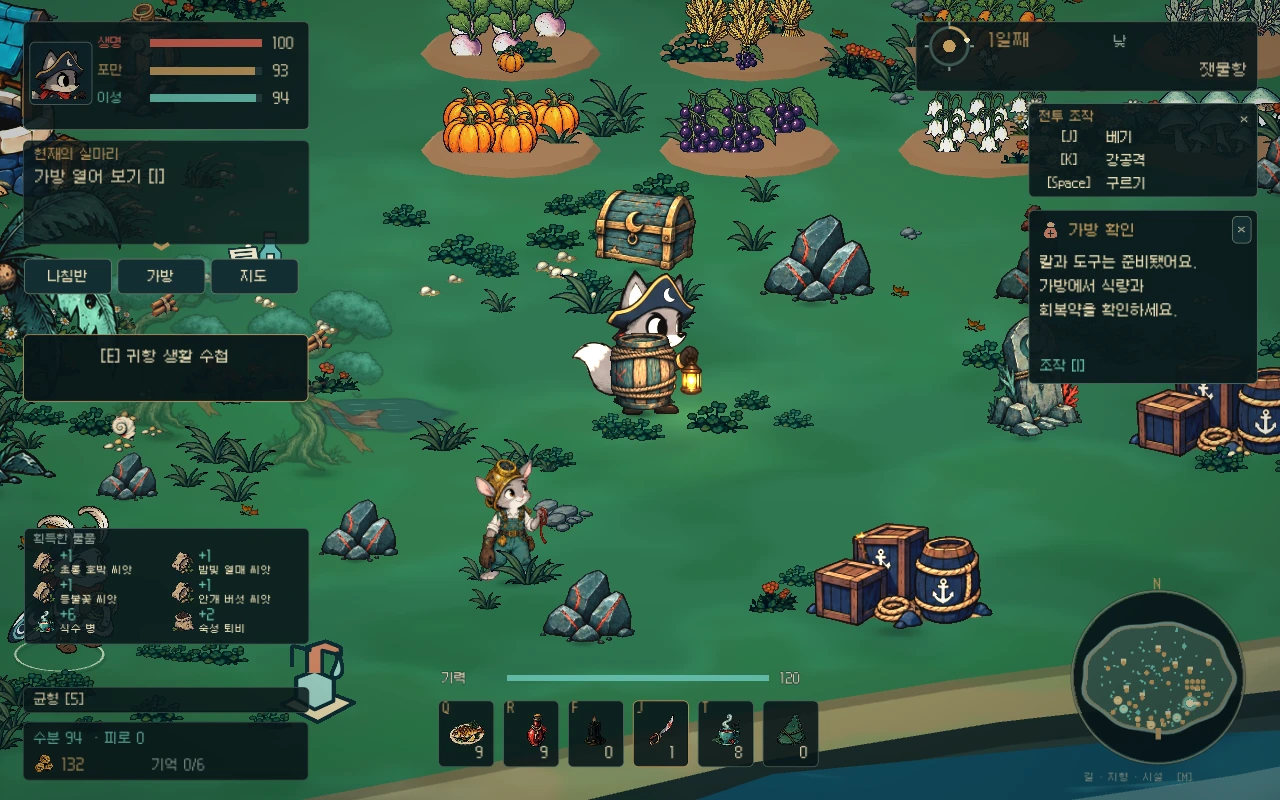
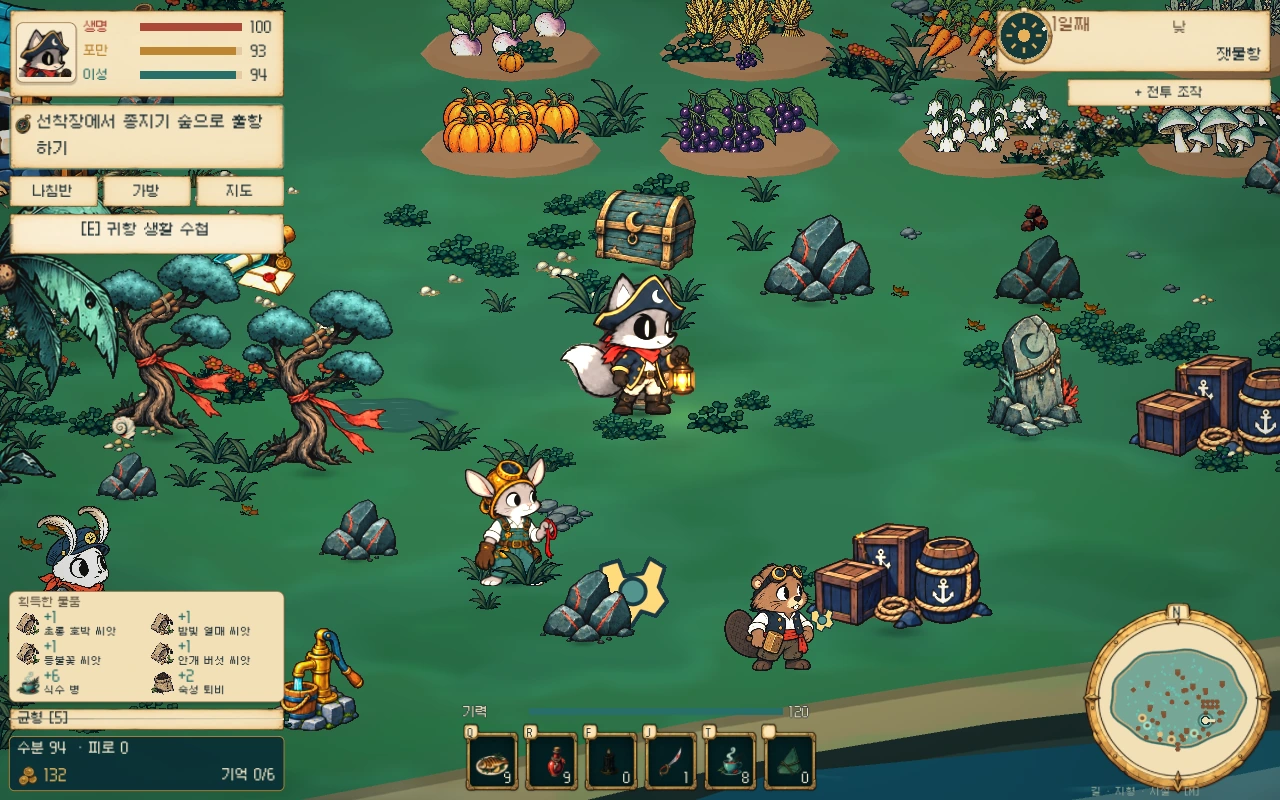
Update Outlaw Isles gallery for journal UI 0.53.3
Replace the banner, cover and all 16 previous screenshots with current Korean renders. Add settings, combat results and title views, for 19 gameplay/UI screenshots. Refresh matching captions and media provenance; keep other games, release information, store links and videos unchanged.

diff --git a/games/outlaw-isles-rogue-tides/MEDIA.md b/games/outlaw-isles-rogue-tides/MEDIA.md
@@ -1,12 +1,8 @@
-# Outlaw Isles: Rogue Tides — 소개 자료
+# Outlaw Isles: Rogue Tides — 소개 이미지
 
-- 게임 ID: `outlaw-isles-rogue-tides`
-- 공개 상품페이지: https://store.onstove.com/ko/games/106079
-- 상태: 출시 예정. 출시일·가격은 추후 공개.
-- 현재 영상 항목은 요청에 따라 비워 두었습니다.
-
-배너(1920×1080)와 카드 표지(1200×800)는 게임의 기존 타이틀 배경·선박·파도 레이어를 Godot에서 조합한 글자 없는 소개 일러스트입니다. 왼쪽에 웹 제목이 겹칠 여백을 남겼습니다.
-
-스크린샷 16장은 0.51.2의 실제 Godot 렌더링 화면입니다. 기존 보스전·폭풍 항해·설원·농사·인벤토리·조선소 6장에 항구 탐험·주민 대화·주민 의뢰·세계 해도·장비·요리와 보급·선원 관리·낚시·다른 대륙의 항구·벌목 10장을 추가했습니다. 탐험과 행동, 메뉴 화면을 번갈아 배치해 기능을 비교하기 쉽게 구성했습니다. 추가 장면은 2026-10-19에 한국어로 촬영했습니다. 소개용으로 위치·물자·생장 상태를 준비한 장면이며 연속 캠페인 완주를 의미하지 않습니다. 실제 사용자 저장은 사용하지 않았습니다. 1280×800 원래 비율을 유지하고 WebP로 변환했으며 플레이 화면의 내용은 합성하지 않았습니다.
-
-원본 원화·음원·작업 파일·실행파일·QA 기록은 사이트 저장소에 포함하지 않습니다. 언어 추가분은 번역 검수 중이며 실제 Steam Deck 인증을 주장하지 않습니다.
+- 2026-10-22, 게임 버전 0.53.3의 한국어 화면.
+- 스크린샷 19장은 실제 게임 렌더러에서 촬영했습니다. 소개 촬영을 위해 지역·아이템·진행 상태를 준비했으며 연속 캠페인 완주 기록은 아닙니다.
+- 항해일지 UI, 인벤토리, 장비, 설정, NPC 대화, 전투와 결과, 항해, 농사, 낚시, 벌목, 지역 탐험을 포함합니다.
+- 배너와 표지는 현재 게임의 타이틀 원화를 이용해 렌더링한 소개용 이미지입니다.
+- 화면의 비율과 구성을 유지한 WebP 변환입니다. 플레이 화면의 요소를 합성하거나 새로 그려 넣지 않았습니다.
+- 영상 항목은 비워 두었습니다.
